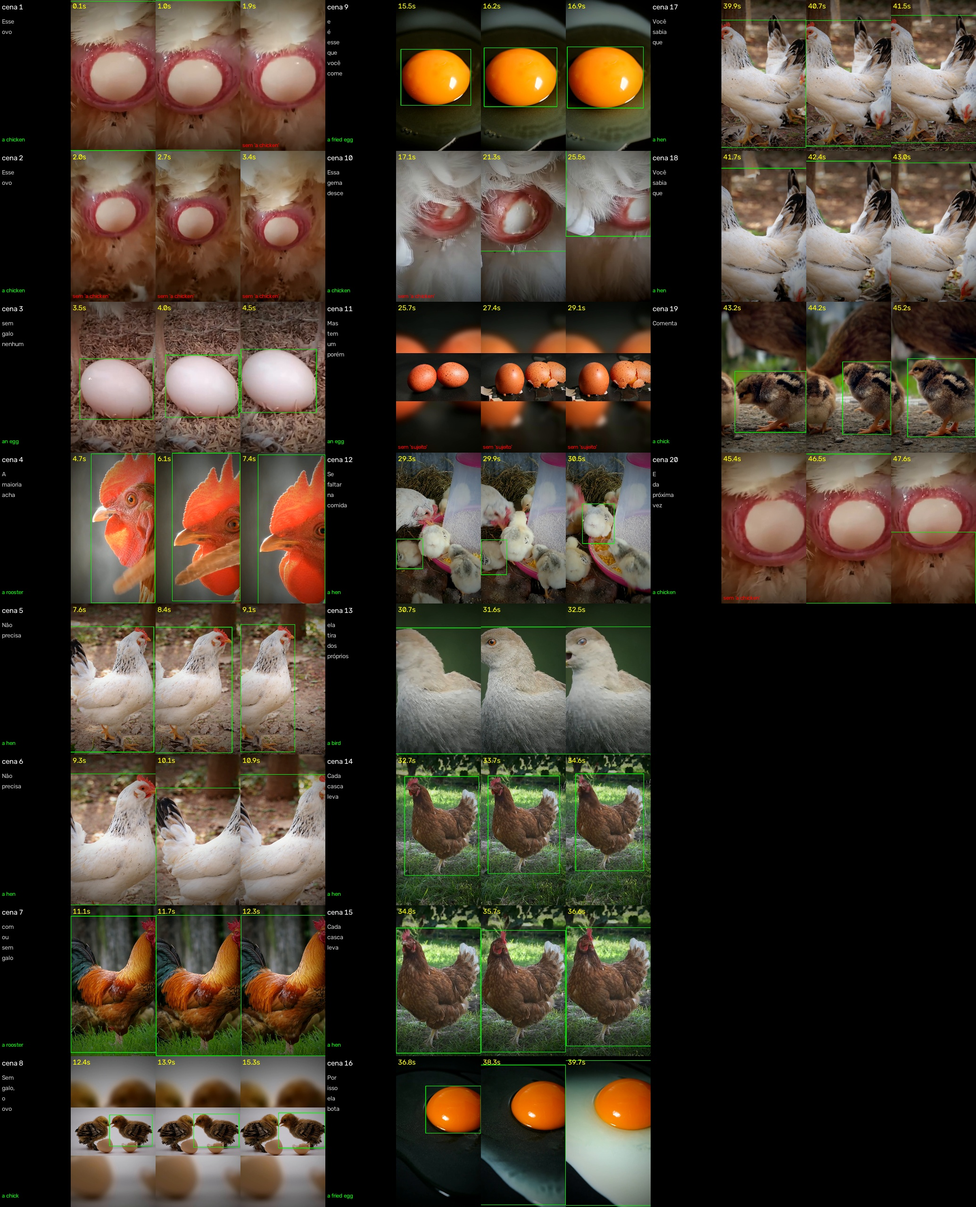
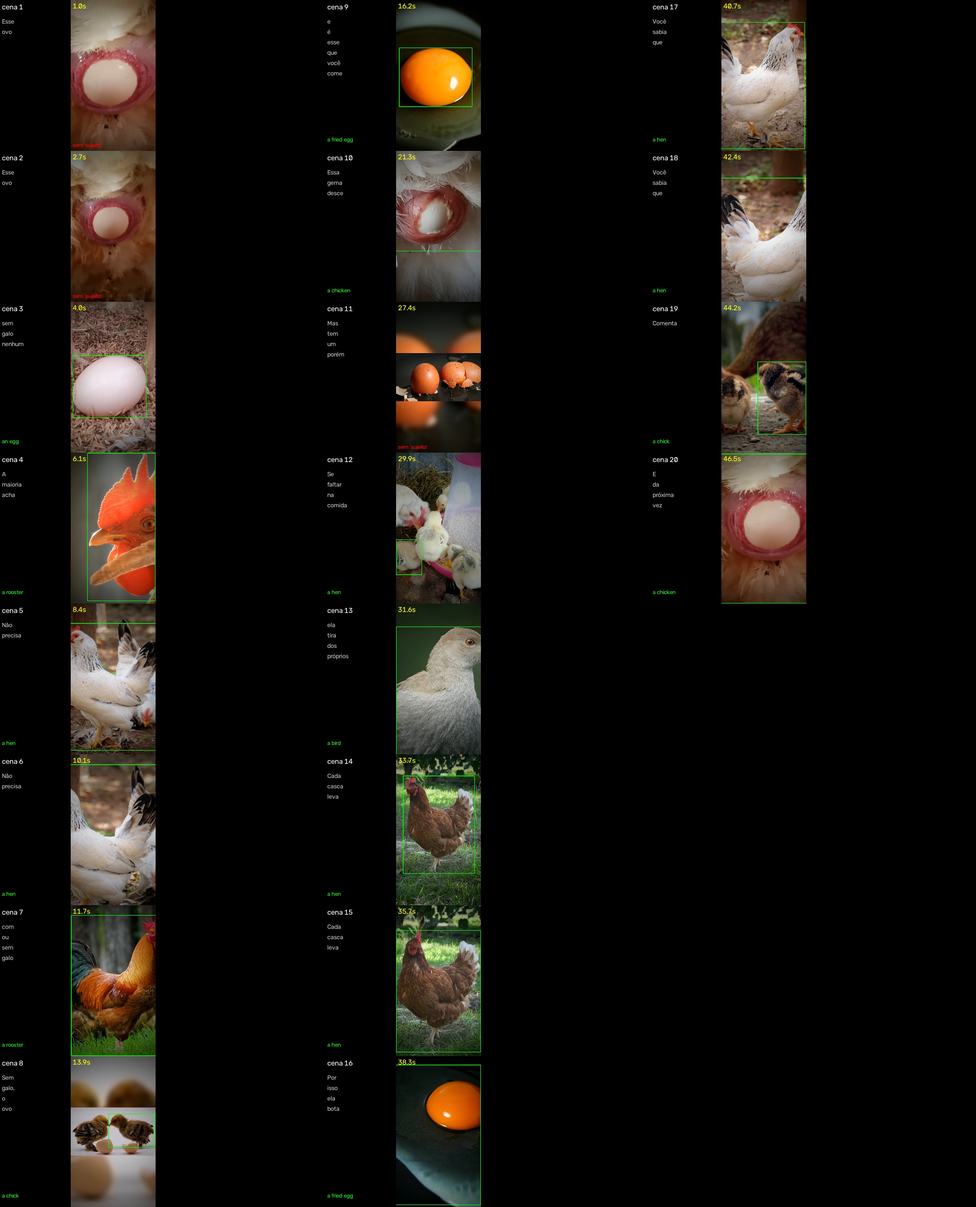
Contraste entre cenas (escala, quantidade, direção, energia) na escolha; espelhar; revisão leve por padrão
Claude-Session: https://claude.ai/code/session_01Pz7vxCjdPfCnR3b978TXUQ

diff --git a/viitu/contraste.py b/viitu/contraste.py
@@ -1,0 +1,99 @@
+"""Planejador de CONTRASTE entre cenas vizinhas (usar na ESCOLHA das cenas, antes de editar).
+
+Princípio (definido com o dono): o cérebro se acostuma com o que se repete. Cada cena deve ser
+diferente da anterior em pelo menos 1 eixo:
+  - ESCALA: close ↔ médio ↔ aberto
+  - QUANTIDADE: um sujeito ↔ muitos (uma galinha → um monte de galinhas)
+  - DIREÇÃO: sujeito/movimento para a esquerda ↔ para a direita (dá para inverter com "espelhar")
+  - ENERGIA: parado ↔ em movimento
+
+Uso:
+  python -m viitu.contraste <projeto>            relatório
+  python -m viitu.contraste <projeto> --aplicar  liga "espelhar" onde a direção repete
+Cenas com texto/logo/marca d'água na imagem nunca são espelhadas ("texto_na_imagem": true ou layout inteiro).
+"""
+
+from __future__ import annotations
+
+import argparse
+import json
+from pathlib import Path
+
+import cv2
+import numpy as np
+
+from viitu.visao import detectar
+
+RAIZ = Path(__file__).resolve().parent.parent
+
+
+def perfil(clipe: Path, t: float) -> dict:
+    cap = cv2.VideoCapture(str(clipe))
+    fps = cap.get(cv2.CAP_PROP_FPS) or 30
+    total = int(cap.get(cv2.CAP_PROP_FRAME_COUNT))
+    cap.set(cv2.CAP_PROP_POS_FRAMES, min(int(t * fps), max(total - 8, 0)))
+    ok, a = cap.read()
+    for _ in range(5):
+        ok2, b = cap.read()
+    cap.release()
+    if not ok:
+        return {}
+    dets = detectar(a)
+    ga = cv2.cvtColor(cv2.resize(a, (256, 144)), cv2.COLOR_BGR2GRAY)
+    gb = cv2.cvtColor(cv2.resize(b, (256, 144)), cv2.COLOR_BGR2GRAY) if ok2 else ga
+    fluxo = cv2.calcOpticalFlowFarneback(ga, gb, None, 0.5, 3, 15, 3, 5, 1.2, 0)
+    mov = float(np.linalg.norm(fluxo, axis=2).mean())
+    dx = float(fluxo[..., 0].mean())
+    area = max((d["caixa"][2] * d["caixa"][3] for d in dets), default=0)
+    escala = "close" if area > 0.35 else ("médio" if area > 0.08 else ("aberto" if dets else "?"))
+    lado = 0.0
+    if dets:
+        x, _, w, _ = dets[0]["caixa"]
+        lado = (x + w / 2) - 0.5            # sujeito à esquerda (<0) ou direita (>0) do quadro
+    direcao = dx if abs(dx) > 0.15 else lado  # movimento manda; se parado, o lado em que está
+    return {"n": len(dets), "escala": escala, "mov": round(mov, 2),
+            "energia": "ação" if mov > 0.8 else "parado", "direcao": "→" if direcao > 0.03 else ("←" if direcao < -0.03 else "·")}
+
+
+def analisar(projeto: str, aplicar: bool) -> None:
+    pasta = RAIZ / "projetos" / projeto
+    arq = pasta / "cenas.json"
+    cfg = json.loads(arq.read_text(encoding="utf-8"))
+    ant = None
+    for i, c in enumerate(cfg["cenas"]):
+        clipe = pasta / "clipes" / c["clipe"]
+        if clipe.suffix.lower() in (".jpg", ".png"):
+            continue
+        p = perfil(clipe, c.get("inicio", 0) + 0.8)
+        if not p:
+            continue
+        if c.get("espelhar") and p["direcao"] != "·":
+            p["direcao"] = "←" if p["direcao"] == "→" else "→"
+        quant = "muitos" if p["n"] >= 3 else ("um" if p["n"] else "—")
+        avisos = []
+        if ant:
+            iguais = [nome for nome, a, b in (("escala", ant["escala"], p["escala"]), ("quantidade", ant["q"], quant),
+                                              ("energia", ant["energia"], p["energia"])) if a == b]
+            if len(iguais) == 3:
+                avisos.append("MONÓTONA: igual à anterior em escala, quantidade e energia → troque a cena")
+            if p["direcao"] != "·" and p["direcao"] == ant["direcao"]:
+                pode = not (c.get("texto_na_imagem") or c.get("layout") == "inteiro")
+                if aplicar and pode:
+                    c["espelhar"] = not c.get("espelhar", False)
+                    p["direcao"] = "←" if p["direcao"] == "→" else "→"
+                    avisos.append("direção repetia → espelhada")
+                else:
+                    avisos.append("mesma direção da anterior" + (" (sugestão: espelhar)" if pode else ""))
+        print(f"{i + 1:>2}. {c['em'][:24]:<24} | {p['escala']:<6} | {quant:<6} | {p['energia']:<6} | {p['direcao']} "
+              f"| {'; '.join(avisos)}")
+        ant = {**p, "q": quant}
+    if aplicar:
+        arq.write_text(json.dumps(cfg, ensure_ascii=False, indent=1), encoding="utf-8")
+
+
+if __name__ == "__main__":
+    ap = argparse.ArgumentParser()
+    ap.add_argument("projeto")
+    ap.add_argument("--aplicar", action="store_true")
+    a = ap.parse_args()
+    analisar(a.projeto, a.aplicar)

diff --git a/viitu/revisar.py b/viitu/revisar.py
@@ -25,6 +25,7 @@ import numpy as np
 RAIZ = Path(__file__).resolve().parent.parent
 FPS = 30
 MAX_ANCORA, MAX_OUTROS = 4, 1
+RIGOROSO = "--rigoroso" in sys.argv     # padrão: 1 quadro por cena (rede de segurança, não o critério)
 
 
 def _quadro(cap, f):
@@ -87,7 +88,8 @@ def revisar(projeto: str) -> bool:
         if cena.get("revisao") == "manual":     # conferida a olho (detector não serve p/ esse plano)
             esperado = None
         tiles, notas = [], []
-        for f in (f0 + 2, (f0 + f1) // 2, f1 - 3):
+        quadros = (f0 + 2, (f0 + f1) // 2, f1 - 3) if RIGOROSO else ((f0 + f1) // 2,)
+        for f in quadros:
             img = _quadro(cap, max(min(f, total - 1), 0))
             if img is None:
                 continue
@@ -125,7 +127,7 @@ def revisar(projeto: str) -> bool:
                 cv2.putText(t, nota[:22], (4, 312), cv2.FONT_HERSHEY_SIMPLEX, 0.42, (0, 0, 255), 1)
             tiles.append(t)
         # problema real só se aparecer em 2 dos 3 quadros (evita falso alarme de 1 quadro)
-        if len(notas) >= 2 and cena.get("revisao") != "manual":
+        if len(notas) >= (2 if RIGOROSO else 1) and cena.get("revisao") != "manual":
             problemas.append(f"CENA {k + 1} ({f0 / FPS:.1f}–{f1 / FPS:.1f}s, '{cena['em']}', {cena['clipe']}): {', '.join(sorted(set(notas)))}")
         faixa = np.zeros((320, 150, 3), np.uint8)
         cv2.putText(faixa, f"cena {k + 1}", (4, 20), cv2.FONT_HERSHEY_SIMPLEX, 0.5, (255, 255, 255), 1)
@@ -148,4 +150,4 @@ def revisar(projeto: str) -> bool:
 
 
 if __name__ == "__main__":
-    sys.exit(0 if revisar(sys.argv[1]) else 1)
+    sys.exit(0 if revisar([a for a in sys.argv[1:] if not a.startswith("--")][0]) else 1)

diff --git a/viitu/editar.py b/viitu/editar.py
@@ -135,6 +135,8 @@ def _filtro_cena(s: dict, entrada: str, eh_foto: bool, n_frames: int, primeira: 
         f = (f"[{entrada}]{_lento(s)}{crop},scale={W * 2}:{H * 2}:flags=lanczos,"
              f"zoompan=z='{zexpr}':x='max(0\\,min(iw-iw/zoom\\,iw*{sx}-iw/zoom/2))'"
              f":y='max(0\\,min(ih-ih/zoom\\,ih*{sy}-ih/zoom/2))':d=1:s={W}x{H}:fps={FPS}")
+    if s.get("espelhar"):
+        f += ",hflip"                       # inverte o lado (o cérebro não se acostuma)
     f += ",eq=contrast=1.06:saturation=1.12,unsharp=5:5:0.5,vignette=PI/5,setsar=1,format=yuv420p"     # bordas escuras guiam o olhar
     if not primeira and not MODO_REMOTION:
         f += ",fade=t=in:st=0:d=0.12:color=white"   # flash nos cortes (no Remotion: glitch RGB)
@@ -201,6 +203,8 @@ def marca_que_segue(s: dict, clipe: Path, n: int, pasta: Path, idx: int) -> Path
         xs[i], ys[i] = pos[i][0], pos[i][1]
         xs[-1 - i], ys[-1 - i] = pos[-1 - i][0], pos[-1 - i][1]
     pos = [(float(a), float(b), p[2]) for a, b, p in zip(xs, ys, pos)]
+    if s.get("espelhar"):
+        pos = [(W - a, b, c) for a, b, c in pos]
     s["_marca_pos"] = [[round(a, 1), round(b, 1), round(c, 1)] for a, b, c in pos]
     if MODO_REMOTION:
         return None

diff --git a/CLAUDE.md b/CLAUDE.md
@@ -108,8 +108,18 @@ sem CAIXA ALTA gritando. Só em português: o canal tem **dublagem automática**
 - Estilo de legenda/SFX (referência: palavra única, fonte grossa, contorno; flash 0,2 s nos cortes;
   woosh nos cortes, ding/pak na palavra-gatilho)
 
+## Escolha de cena (definido com o dono): decidir NA ESCOLHA, não consertar depois
+1. **Toda cena é escolhida com o cuidado do gancho:** representa exatamente a frase falada E tem
+   apelo visual (o melhor trecho do clipe, assunto em destaque, enquadrado). Sem "cena de enchimento".
+2. **Contraste com a cena anterior** (o cérebro não se acostuma): mudar pelo menos 1 eixo —
+   escala (close ↔ aberto), quantidade (uma galinha ↔ um monte), direção (olhando/indo para a
+   esquerda ↔ direita; inverter com `"espelhar": true`), energia (parado ↔ ação).
+3. Cena de explicação não precisa de início-meio-fim; precisa de variedade e de força visual.
+4. Ferramenta: `python3 -m viitu.contraste <proj>` (relatório) / `--aplicar` (espelha onde a direção
+   repete). Nunca espelhar imagem com texto/logo/marca d'água (`"texto_na_imagem": true`).
+
 ## Revisão técnica OBRIGATÓRIA antes de entregar
-- `python3 -m viitu.revisar <proj>`: confere início/meio/fim de cada cena (assunto `esperado` na tela,
+- `python3 -m viitu.revisar <proj>`: confere o meio de cada cena (`--rigoroso`: início/meio/fim) (assunto `esperado` na tela,
   centralizado, não cortado) e repetição de clipes (âncora ≤ 4 cenas, demais 1). Abrir
   `saida/revisao.jpg` e olhar. Só mandar ao dono com APROVADO ou com cada alerta conferido a olho
   (marcar `"revisao": "manual"` na cena quando o detector não serve, ex.: close extremo).

diff --git a/.claude/skills/clipes/SKILL.md b/.claude/skills/clipes/SKILL.md
@@ -47,6 +47,11 @@ python3 -m viitu.tema brutos "<tema em inglês, ex.: vampire bat documentary>"
 A nuvem não baixa do YouTube: o usuário baixa/grava a tela das cenas e envia no chat ou por Drive.
 Material de terceiros entra com narração transformadora + crédito na descrição.
 
+## 1c. Contraste entre cenas vizinhas (planejar ANTES de baixar)
+Para cada cena, anote também o contraste com a anterior: escala, quantidade (1 ↔ muitos), direção
+(← ↔ →) e energia (parado ↔ ação). Ex.: galo em close → um monte de galinhas → um galo inteiro.
+Depois de montar o cenas.json: `python3 -m viitu.contraste <proj> --aplicar`.
+
 ## 2. Buscar e ANALISAR candidatos (nunca escolher por miniatura)
 ```
 python3 -m viitu.visao candidatos "goat eating" "cat stalking" ... -n 6 --saida <scratchpad>/cand
